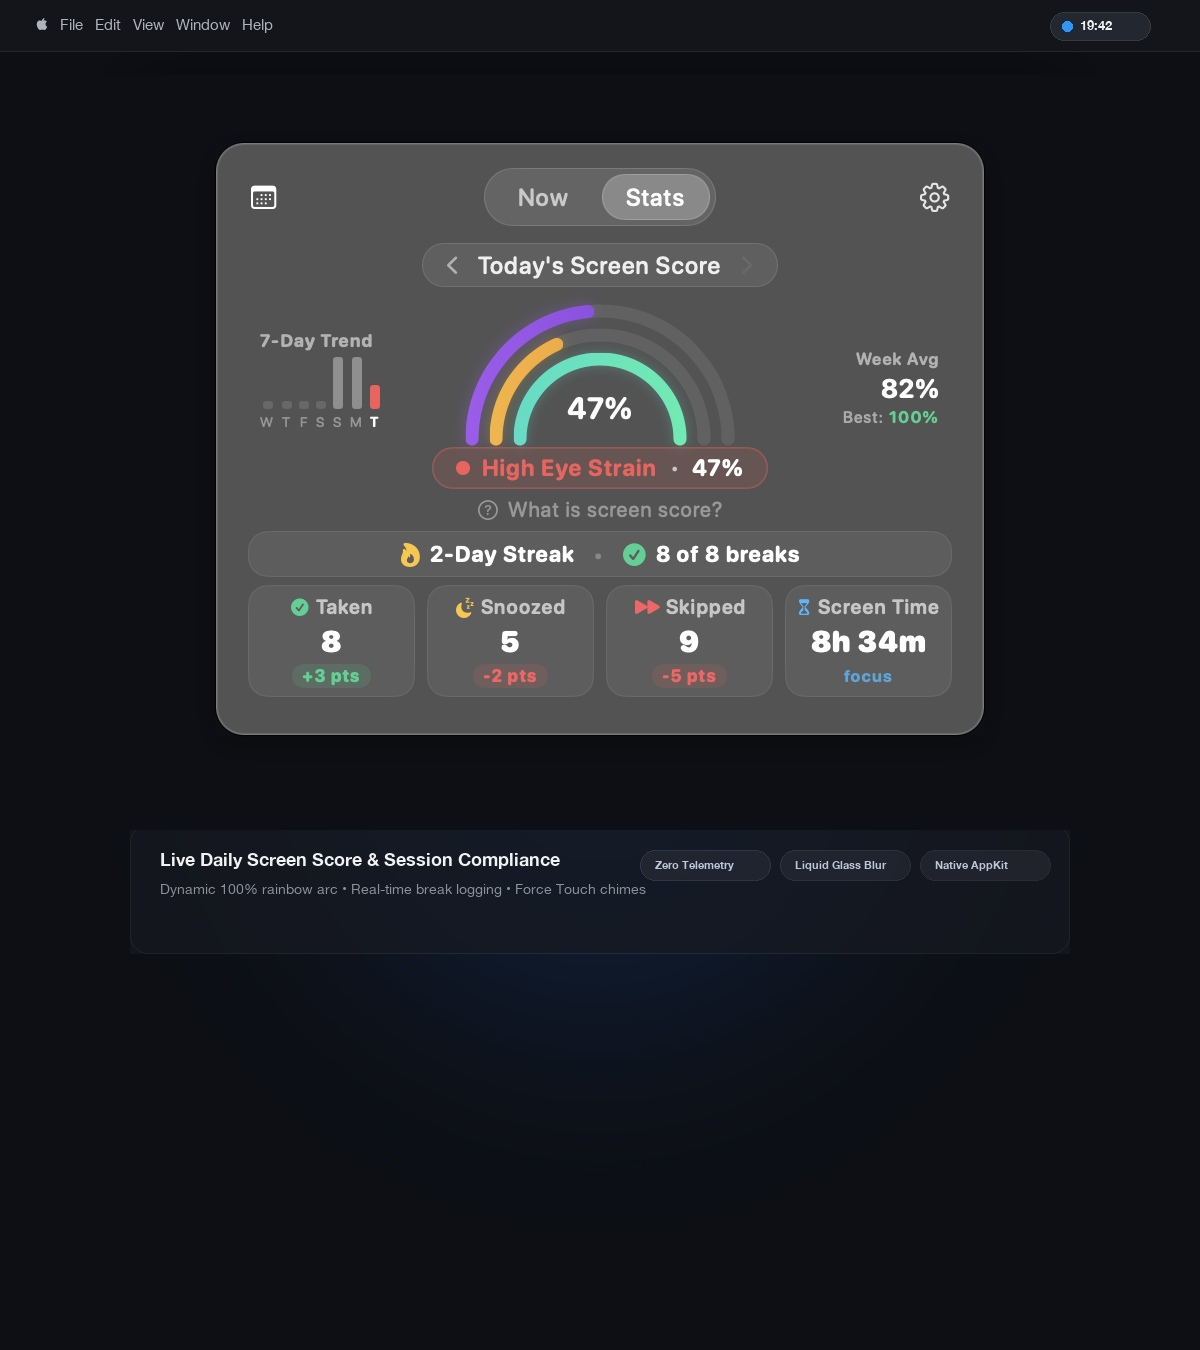
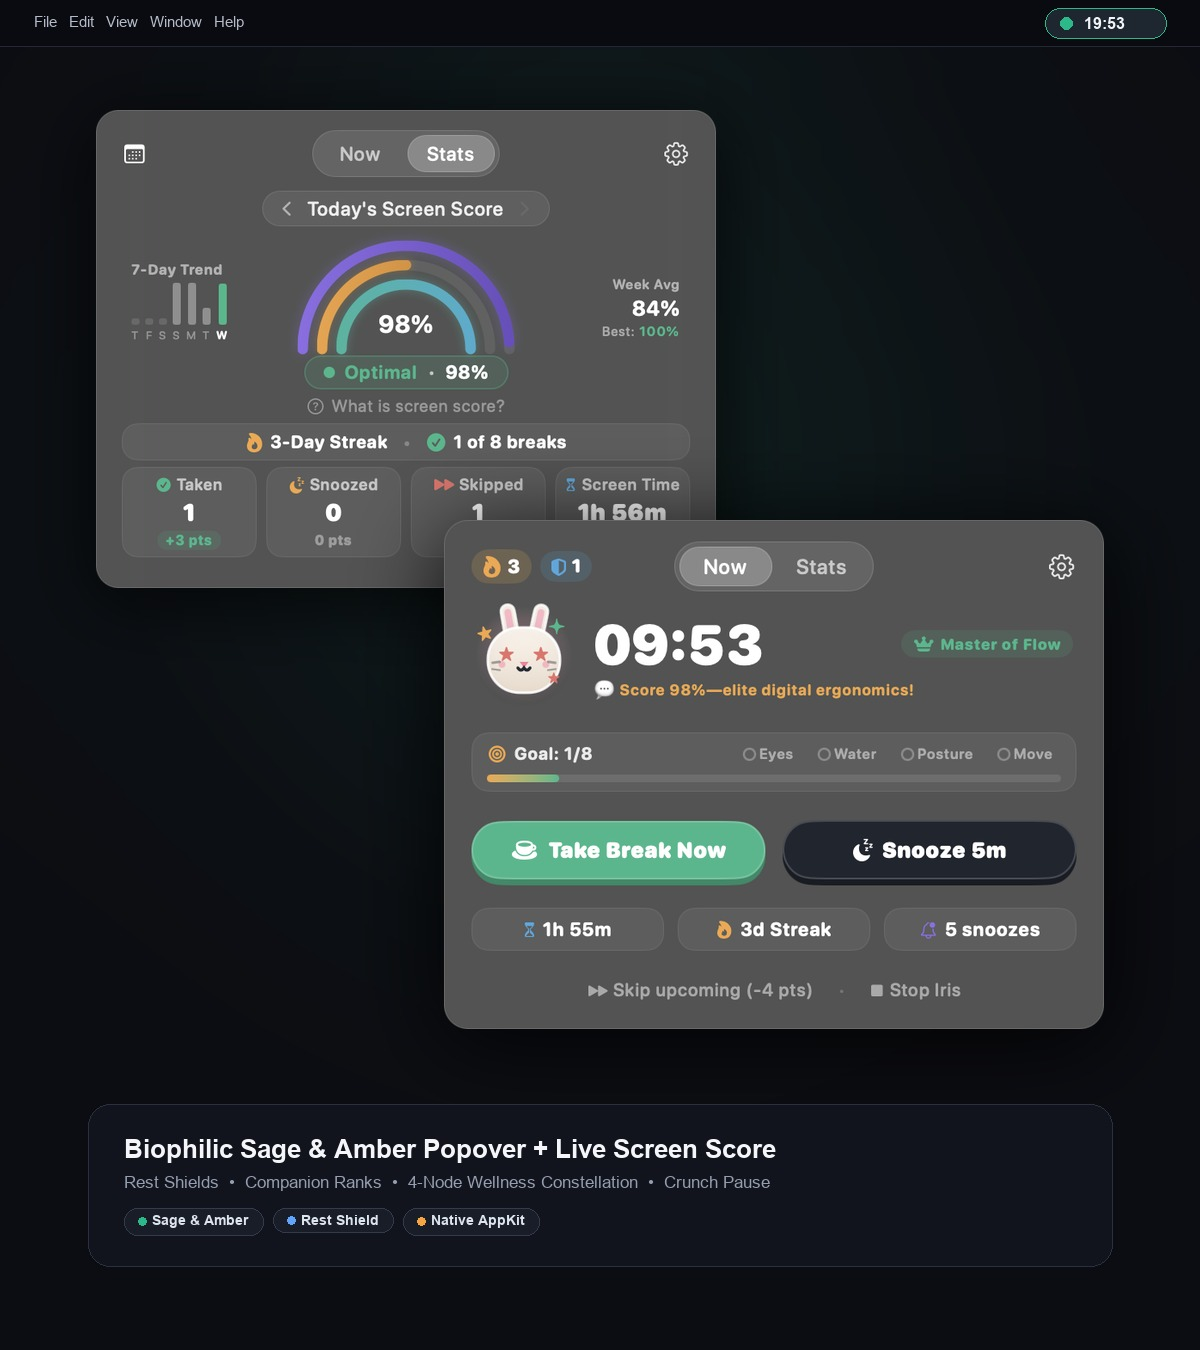
Docs: Update v3.0.0 screenshots, Notch Whisper, Option A themes, and swipe popups

diff --git a/docs/index.html b/docs/index.html
@@ -6,8 +6,8 @@
   <title>Iris - Native macOS Eye Care, 20-20-20 Break Reminder & Screen Strain Prevention</title>
   
   <!-- SEO Meta Tags -->
-  <meta name="description" content="Iris is a free, open-source macOS break reminder and eye-care app. Prevent digital eye strain with the 20-20-20 rule, liquid glass menu bar popover, meeting detection, and Apple Force Touch trackpad haptics.">
-  <meta name="keywords" content="macos eye strain, 20-20-20 rule mac, mac break reminder, screen time eye care, macbook trackpad haptics, lookaway alternative, time out mac alternative, open source mac app, swiftui menu bar">
+  <meta name="description" content="Iris is a free macOS break reminder and eye-care companion. Prevent digital eye strain with the 20-20-20 rule, Notch Whisper hardware alerts, Biophilic Sage & Amber themes, swipeable 2-second wellness habits, Rest Shields, and Force Touch haptics.">
+  <meta name="keywords" content="macos eye strain, 20-20-20 rule mac, mac break reminder, screen time eye care, macbook notch whisper, macbook trackpad haptics, lookaway alternative, time out mac alternative, swiftui menu bar">
   <meta name="author" content="Harshwardhan Galande">
   <link rel="canonical" href="https://harshwardhangalande.github.io/Iris/">
   <link rel="icon" type="image/png" href="app_icon.png">
@@ -18,14 +18,14 @@
   <meta property="og:type" content="website">
   <meta property="og:url" content="https://harshwardhangalande.github.io/Iris/">
   <meta property="og:title" content="Iris - Native macOS Eye Care & 20-20-20 Break Reminder">
-  <meta property="og:description" content="Prevent digital eye strain on Mac with native 20-20-20 breaks, liquid glass menu bar UI, meeting detection, and Force Touch trackpad haptics. Free and open source.">
+  <meta property="og:description" content="Prevent digital eye strain on Mac with native 20-20-20 breaks, Notch Whisper bezel alerts, Biophilic Sage & Amber ergonomics, Rest Shields, and Force Touch haptics.">
   <meta property="og:image" content="https://raw.githubusercontent.com/harshwardhangalande/Iris/main/docs/screenshots/mockup_popover.jpg">
 
   <!-- Twitter -->
   <meta property="twitter:card" content="summary_large_image">
   <meta property="twitter:url" content="https://harshwardhangalande.github.io/Iris/">
   <meta property="twitter:title" content="Iris - Native macOS Eye Care & 20-20-20 Break Reminder">
-  <meta property="twitter:description" content="Prevent digital eye strain on Mac with native 20-20-20 breaks, liquid glass menu bar UI, and Force Touch trackpad haptics.">
+  <meta property="twitter:description" content="Prevent digital eye strain on Mac with 20-20-20 breaks, Notch Whisper alerts, swipeable 2-second wellness habits, Rest Shields, and Force Touch haptics.">
   <meta property="twitter:image" content="https://raw.githubusercontent.com/harshwardhangalande/Iris/main/docs/screenshots/mockup_popover.jpg">
 
   <!-- Schema.org JSON-LD Structured Data for Google -->
@@ -36,7 +36,7 @@
     "name": "Iris",
     "operatingSystem": "macOS 13.0 or later (Ventura, Sonoma, Sequoia)",
     "applicationCategory": "HealthApplication",
-    "description": "Native macOS break reminder and eye-strain prevention application using the 20-20-20 rule and Force Touch trackpad haptics.",
+    "description": "Native macOS break reminder and eye-strain prevention companion featuring the 20-20-20 rule, Notch Whisper countdowns, ergonomic themes, Rest Shields, and Force Touch trackpad haptics.",
     "offers": {
       "@type": "Offer",
       "price": "0.00",
@@ -827,7 +827,7 @@
       <h1 class="hero-title" data-blur-text>Protect your eyes on <span class="hero-title-accent">macOS</span> in one native companion</h1>
 
       <!-- Subtitle -->
-      <p class="subtitle hero-subtitle" data-blur-text>Drop-in eye-care companion engineered around the 20-20-20 rule. Rest reminders, Force Touch trackpad haptics, smart meeting auto-pause, and zero background bloat.</p>
+      <p class="subtitle hero-subtitle" data-blur-text>Drop-in eye-care companion engineered around the 20-20-20 rule and humane psychology. Ambient Notch Whisper alerts, Biophilic Sage &amp; Amber palettes, swipeable 2-second wellness habits, Rest Shields, and Force Touch haptics.</p>
 
       <!-- Package Manager Installation Tabs -->
       <div class="install-tabs hero-fade-item">
@@ -896,55 +896,55 @@
         <div class="card reveal-blur">
           <div class="card-image-wrap">
             <span class="card-pin-action">Preview</span>
-            <img src="screenshots/mockup_popover.jpg" alt="Iris Menu Bar Liquid Glass Popover with Rainbow Screen Score">
+            <img src="screenshots/mockup_popover.jpg" alt="Iris Menu Bar Liquid Glass Popover with Rainbow Screen Score and Rest Shields">
           </div>
           <div class="card-content">
             <span class="card-tag tag-blue">Menu Bar Companion</span>
-            <h3>Liquid Glass Popover</h3>
-            <p>Live resident countdown in your macOS menu bar, fluid sliding carousel between Now and Stats tabs, animated Screen Score rainbow arc gauge with real-time count-up, 4 interchangeable flanking styles (7-Day Sparkline, Companion Buddy, Arc Breakdown, Legend), daily streak flame, and compliance metrics with uniform padding and zero window overlap.</p>
+            <h3>Liquid Glass Popover &amp; Rest Shields</h3>
+            <p>Optional live countdown in your macOS menu bar, fluid spring carousel between Now and Stats tabs, clickable mascot pet reactions with contextual quips, 4-node Wellness Constellation (Eyes, Water, Posture, Move), Rest Shields &amp; Crunch Pause, and the Biophilic Sage &amp; Amber Screen Score gauge.</p>
             <div class="card-pills">
-              <span class="pill">20-20-20 Countdown</span>
-              <span class="pill">Sliding Tab Carousel</span>
-              <span class="pill">Animated Rainbow Gauge</span>
-              <span class="pill">4 Flanking Layouts</span>
-              <span class="pill">Daily Streaks</span>
+              <span class="pill">4-Node Constellation</span>
+              <span class="pill">Rest Shields</span>
+              <span class="pill">Animated Score Gauge</span>
+              <span class="pill">Mascot Quips</span>
+              <span class="pill">3 Ergonomic Palettes</span>
             </div>
           </div>
         </div>
 
-        <!-- Card 2 (SMALL): Floating Micro-Wellness HUD -->
+        <!-- Card 2 (SMALL): Adaptive Notch Whisper & Swipe Popups -->
         <div class="card reveal-blur">
           <div class="card-image-wrap">
-            <span class="card-pin-action">Wellness</span>
-            <img src="screenshots/mockup_wellness.jpg" alt="Iris Floating Micro Wellness Reminders for Water, Blink, Posture, Stretch, and Breath">
+            <span class="card-pin-action">Notch &amp; Habits</span>
+            <img src="screenshots/mockup_wellness.jpg" alt="Iris Notch Whisper Bezel Countdown and Swipeable 2-Second Wellness Habits">
           </div>
           <div class="card-content">
-            <span class="card-tag tag-green">Habit Formation</span>
-            <h3>Unified 5-in-1 Wellness Popups</h3>
-            <p>Tactile 3D HUD micro-prompts presenting all 5 wellness actions together: eye blinking, mindful hydration, posture alignment, stretching, and deep breathing. Tailored to 5 nature companions (Ollie, Pip, Koa, Barnaby, Finley) with custom emoji badges, 3D checkmarks, and customizable screen positioning (2%–90%).</p>
+            <span class="card-tag tag-green">Ambient &amp; Habit Loop</span>
+            <h3>Notch Whisper &amp; Swipeable Popups</h3>
+            <p>Subtle obsidian bezel lip peeking out below your MacBook notch (toggleable on/off in Settings) that expands on hover with Rest Now and Snooze 5m controls—paired with sequential floating wellness pills featuring 25 bespoke mascot emotes, 2-second tiny habits, and smooth right-swipe dismissal.</p>
             <div class="card-pills">
-              <span class="pill">5 Nature Mascots</span>
-              <span class="pill">Unified 5-in-1 Stack</span>
-              <span class="pill">3D Tactile Pills</span>
-              <span class="pill">Custom Sliders</span>
+              <span class="pill">Notch Whisper</span>
+              <span class="pill">Swipe Right Dismiss</span>
+              <span class="pill">2s Tiny Habits</span>
+              <span class="pill">25 Mascot Emotes</span>
             </div>
           </div>
         </div>
 
-        <!-- Card 3 (BIG): Fullscreen Rest Overlay -->
+        <!-- Card 3 (BIG): Fullscreen Rest Overlay & Peak-End Finale -->
         <div class="card reveal-blur">
           <div class="card-image-wrap">
             <span class="card-pin-action">Fullscreen</span>
-            <img src="screenshots/mockup_break.jpg" alt="Iris Cinematic Multi-Display 20-20-20 Rest Overlay">
+            <img src="screenshots/mockup_break.jpg" alt="Iris Cinematic Multi-Display 20-20-20 Rest Overlay and Peak-End Finale">
           </div>
           <div class="card-content">
             <span class="card-tag tag-purple">Multi-Display Experience</span>
-            <h3>Cinematic Rest Overlay</h3>
-            <p>Non-jarring full-screen coverage across all connected external monitors simultaneously, featuring distance eye relaxation prompts and guided breathing.</p>
+            <h3>Cinematic Rest &amp; Peak-End Finale</h3>
+            <p>Non-jarring full-screen coverage across all connected external monitors simultaneously, guiding breathing and distance gaze—then closing every rest on a warm confetti Peak-End Finale that unlocks Sanctuary habitat props and advances your Identity Rank.</p>
             <div class="card-pills">
               <span class="pill">Multi-Monitor Sync</span>
-              <span class="pill">Guided Breathing</span>
-              <span class="pill">Gentle &amp; Strict Modes</span>
+              <span class="pill">Peak-End Finale</span>
+              <span class="pill">Sanctuary Props</span>
             </div>
           </div>
         </div>
@@ -994,10 +994,11 @@
           </div>
           <div class="card-content">
             <span class="card-tag tag-indigo">System Intelligence</span>
-            <h3>Smart Pause &amp; 100% Offline</h3>
-            <p>Intelligently pauses breaks during Zoom, Google Meet, Teams, or FaceTime calls and screen sharing. Fully private with zero network tracking or external telemetry.</p>
+            <h3>Smart Pause, Crunch Shield &amp; 100% Offline</h3>
+            <p>Intelligently pauses breaks during Zoom, Google Meet, Teams, or FaceTime calls and detects intense work crunches to protect your streak with Rest Shields—with zero network telemetry.</p>
             <div class="card-pills">
               <span class="pill">Meeting Auto-Pause</span>
+              <span class="pill">Crunch Rest Shields</span>
               <span class="pill">IOKit Idle Sensor</span>
               <span class="pill">Zero Telemetry</span>
             </div>
@@ -1095,8 +1096,8 @@
               <path d="M9 18a3 3 0 0 0 6 0"/>
             </svg>
           </div>
-          <h3>5 Nature Mascots &amp; Streaks</h3>
-          <p>Choose between Ollie Owl, Pip Frog, Koa Koala, Barnaby Bunny, and Finley Otter with daily streaks, 3D tactile buttons, and confetti celebrations.</p>
+          <h3>Notch Whisper, Mascots &amp; Sanctuary</h3>
+          <p>Toggleable MacBook Notch Whisper countdowns, 5 nature mascots with 25 custom emotes and pet reactions, swipeable 2-second habit popups, and unlockable desk Sanctuary props.</p>
         </div>
 
         <div class="feature-item reveal-blur">
@@ -1108,8 +1109,8 @@
               <path d="m6 19-2 2"/>
             </svg>
           </div>
-          <h3>Video Auto-Mute &amp; Edge Glow</h3>
-          <p>Automatically mutes chimes when video is playing full-screen, and provides smooth ambient edge glow warnings before breaks.</p>
+          <h3>Rest Shields &amp; Ergonomic Palettes</h3>
+          <p>Choose between Biophilic Sage &amp; Amber, Indigo &amp; Apricot, and Matcha &amp; Iris palettes, plus automatic video muting, edge glow warnings, and streak-saving Rest Shields.</p>
         </div>
       </div>
     </section>
@@ -1146,8 +1147,8 @@
         </div>
 
         <div class="faq-item reveal-blur">
-          <h4>Who are the 5 nature companions?</h4>
-          <p>Iris includes Ollie the Owl, Pip the Tree Frog, Koa the Zen Koala, Barnaby the Bunny, and Finley the Sea Otter. Each companion features animated breathing, blinks, and encouraging poses that celebrate your healthy habits without guilt or punishment.</p>
+          <h4>Who are the 5 nature companions &amp; how do Notch Whisper and Rest Shields work?</h4>
+          <p>Iris includes Ollie the Owl, Pip the Tree Frog, Koa the Zen Koala, Barnaby the Bunny, and Finley the Sea Otter—each with 5 bespoke animated emotes, clickable pet reactions, Sanctuary desk props, and progression from Mindful Starter to Master of Flow. You can toggle the ambient Notch Whisper hardware countdown in Settings, swipe popup previews right to dismiss them, switch across 3 eye-ergonomic color themes, and rely on Rest Shields to protect your streak through busy crunch days.</p>
         </div>
       </div>
     </section>

diff --git a/README.md b/README.md
@@ -45,9 +45,9 @@ Unlike heavyweight Electron alternatives, Iris consumes virtually **zero CPU**, 
 | :---: | :---: |
 | <img src="docs/screenshots/popover_stats.png" width="440" alt="Iris Menu Bar Popover with Rainbow Screen Score and Stats" /> | <img src="docs/screenshots/popover_now.png" width="440" alt="Iris Menu Bar Popover Active Work Countdown and Nature Companion" /> |
 
-| Unified 5-in-1 Mascot Popups | Full-Screen 20-20-20 Rest Overlay |
+| Notch Whisper, Swipe Popups & Themes | Full-Screen 20-20-20 Rest Overlay |
 | :---: | :---: |
-| <img src="docs/screenshots/mascot_showcase.png" width="440" alt="Iris Nature Mascot Companions with Unified 5-in-1 Wellness Popups" /> | <img src="docs/screenshots/break_overlay.jpg" width="440" alt="Iris Full-Screen 20-20-20 Break Overlay on macOS" /> |
+| <img src="docs/screenshots/mascot_showcase.png" width="440" alt="Iris Notch Whisper, Swipeable 2-Second Wellness Habits and Ergonomic Themes" /> | <img src="docs/screenshots/break_overlay.jpg" width="440" alt="Iris Full-Screen 20-20-20 Break Overlay on macOS" /> |
 
 | Scheduled Planned Breaks Editor | Force Touch Trackpad Haptics & Sounds |
 | :---: | :---: |
@@ -103,9 +103,9 @@ Unlike heavyweight Electron alternatives, Iris consumes virtually **zero CPU**, 
 * **Firm**: Requires holding the skip button for 3 seconds to prevent accidental or impulsive skips.
 * **Strict**: Unskippable break screen ensuring full eye relaxation.
 
-### 8. Floating Wellness HUD Reminders
-* Micro-reminders for **Blinking**, **Drinking Water**, **Deep Breathing**, and **Posture Correction**.
-* Five physical animation styles: *Playful Mascot Bounce*, *Liquid Glass Pill*, *Glowing Glass Orb*, *Hold-to-Complete*, and *Combined Stack*.
+### 8. Sequential Swipeable Wellness Popups & 2s Tiny Habits
+* One-by-one sequential micro-reminders for **Posture Correction**, **Drinking Water**, **Eye Blinking**, **Stretching**, and **Deep Breathing**, starring all 5 mascots with 25 bespoke animated emotes.
+* **Right-Swipe to Dismiss & 2-Second Tiny Habits**: Swipe right smoothly on any floating popup pill to dismiss previews, or tap the low-friction habit chip (`2s Sip`, `Drop Shoulders`, `Slow Exhale`) for instant wellness credit.
 * **Custom Screen Positioning**: In-app vertical (2% to 90%) and horizontal position sliders with smooth, unclipped ambient bloom.
 
 ---
@@ -118,6 +118,9 @@ Unlike heavyweight Electron alternatives, Iris consumes virtually **zero CPU**, 
 | **Native macOS Architecture** | **SwiftUI + AppKit (Universal)** | Swift | Swift | Often Electron |
 | **Force Touch Trackpad Haptics** | **Yes (Heartbeat, ticks, snaps)** | No | No | No |
 | **Liquid Glass Menu Bar UI** | **Yes (Sonoma/Sequoia blur)** | Yes | No | No |
+| **Adaptive Notch Whisper** | **Yes (Hover Expand + Toggle)** | No | No | No |
+| **Swipe Popups & 25 Mascot Emotes** | **Yes (5 Companions + Sanctuary)** | No | No | No |
+| **Rest Shields & Ergonomic Palettes** | **Yes (3 Palettes + Peak-End Finale)** | No | No | No |
 | **Multi-Display Fullscreen Overlay** | **Yes** | Yes | Yes | Rarely |
 | **Meeting & Screen Share Auto-Pause** | **Yes** | Yes | Partial | No |
 | **Hardware HID Idle Detection** | **Yes** | Yes | Yes | No |
@@ -168,8 +171,6 @@ No. Iris is written in pure native Swift with no web wrappers (Electron/Chromium
 
 ### Is my activity tracked or sent to the cloud?
 No. Iris operates 100% locally on your machine. All settings and eye health scores are stored locally in macOS `UserDefaults`. No network requests are made, no user analytics are collected, and no accounts are required.
-
----
 
 ---
 
